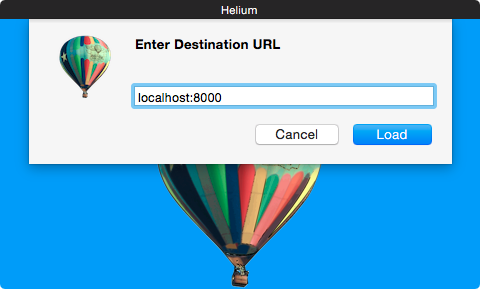
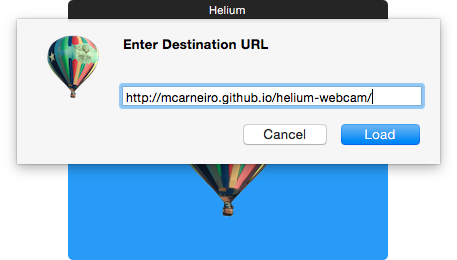
duh! put the page on github.io and updated the doc

diff --git a/readme.md b/readme.md
@@ -10,31 +10,23 @@ Usually I do simple screencasts with quicktime — and actually I want to keep 
 
 Helium uses Safari that still doesn't support [getUserMedia](http://caniuse.com/#search=getUserMedia). So it's a simple HTML page with a embeded SWF. I got the file from a [random 2011 tutorial](http://www.kirupa.com/flash/getting_started_with_the_webcam.htm) because I really didn't want to download Flex and make it.
 
-To use, just follow these simple steps:
+To use it just follow these simple steps:
 
 1. [Download and run Helium](https://github.com/JadenGeller/Helium/releases);
 
-2. Clone this project:
-
-        git clone https://github.com/mcarneiro/helium-webcam.git && cd helium-webcam
-
-3. Run a server (I'm using python here):
-
-        python -m SimpleHTTPServer
-
-4. Put the address `localhost:8000` on Helium:
+2. Paste [http://mcarneiro.github.io/helium-webcam/]() on Helium;
 
     ![](_help/ss1.png)
 
-5. `(optional)` By default, window will be 320x240. If you want to change the width and keep the proportion, press "s":    
+3. `(optional)` By default, window will be 320x240. If you want to change the width and keep the proportion, press "s":    
 _This will need to happen exactly at this moment, because you know, it's flash... so after clicking inside the swf embed the keyboard won't be listened anymore_
 
     ![](_help/ss2.png)
 
-6. Give permission to flash:
+4. Give permission to flash:
 
     ![](_help/ss3.png)
 
-7. That's it!
+5. That's it!
 
     ![](_help/ss4.png)
